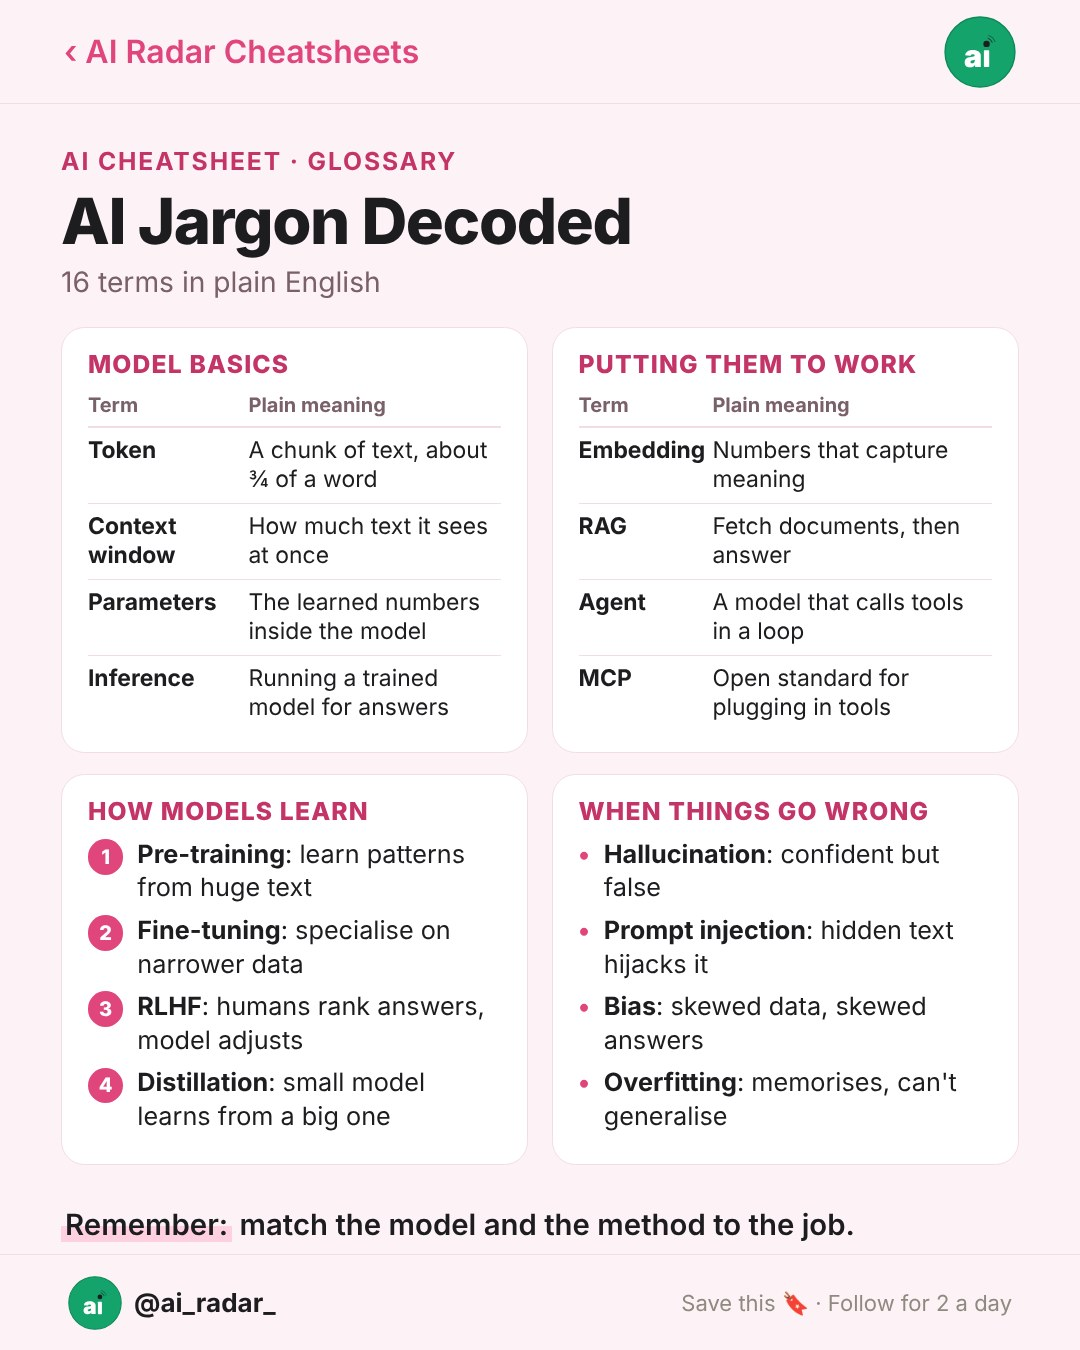
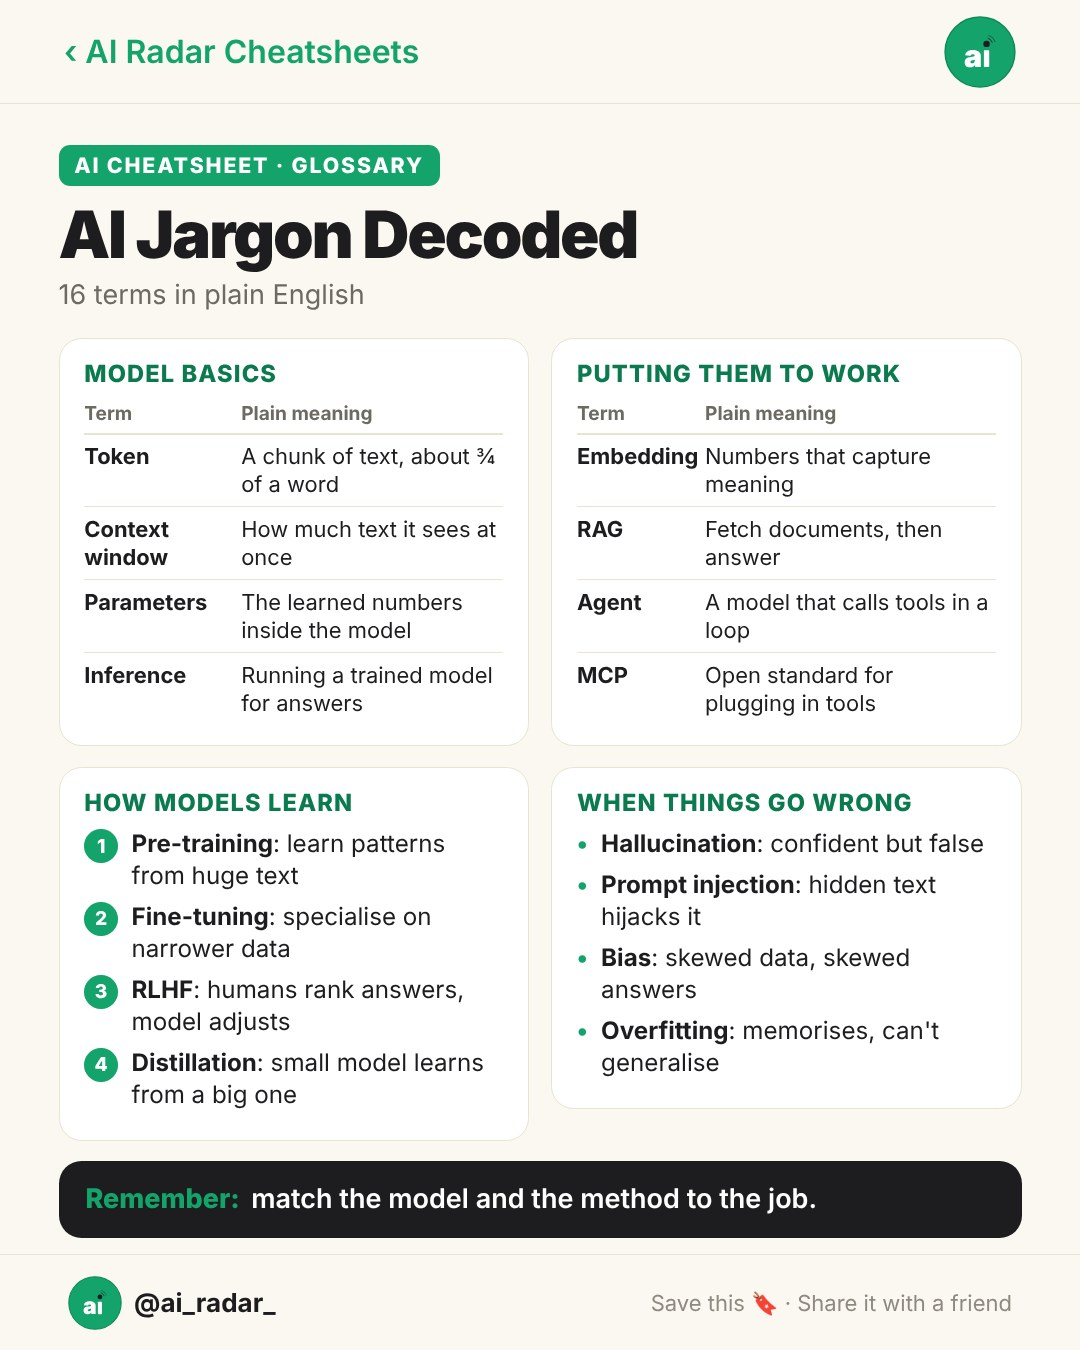
Re-render existing cheatsheets in the new fixed theme
Claude-Session: https://claude.ai/code/session_01SNngmWKSfmXVs7Ci8TEFb5

diff --git a/cheatsheets/index.html b/cheatsheets/index.html
@@ -52,20 +52,20 @@
   <div class="sheets">
     <!-- new-cheatsheet:page -->
     <article class="sheet reveal" id="ai-jargon-decoded">
-      <a class="img" href="img/ai-jargon-decoded.jpg"><img src="img/ai-jargon-decoded.jpg" alt="AI Jargon Decoded cheatsheet: 16 AI terms explained in plain English" loading="lazy" width="1080" height="1350"></a>
-      <div class="meta"><span class="kind">Glossary</span><b>AI Jargon Decoded</b><span class="desc">16 terms in plain English</span><a class="link-arrow" href="img/ai-jargon-decoded.jpg">Open full size →</a></div>
+      <a class="img" href="img/ai-jargon-decoded.jpg?v=2"><img src="img/ai-jargon-decoded.jpg?v=2" alt="AI Jargon Decoded cheatsheet: 16 AI terms explained in plain English" loading="lazy" width="1080" height="1350"></a>
+      <div class="meta"><span class="kind">Glossary</span><b>AI Jargon Decoded</b><span class="desc">16 terms in plain English</span><a class="link-arrow" href="img/ai-jargon-decoded.jpg?v=2">Open full size →</a></div>
     </article>
     <article class="sheet reveal" id="ai-agents-101">
-      <a class="img" href="img/ai-agents-101.jpg"><img src="img/ai-agents-101.jpg" alt="AI Agents 101 cheatsheet: the agent loop, core parts, common patterns and why agents fail" loading="lazy" width="1080" height="1350"></a>
-      <div class="meta"><span class="kind">Agents</span><b>AI Agents 101</b><span class="desc">From chatbot to something that does the work</span><a class="link-arrow" href="img/ai-agents-101.jpg">Open full size →</a></div>
+      <a class="img" href="img/ai-agents-101.jpg?v=2"><img src="img/ai-agents-101.jpg?v=2" alt="AI Agents 101 cheatsheet: the agent loop, core parts, common patterns and why agents fail" loading="lazy" width="1080" height="1350"></a>
+      <div class="meta"><span class="kind">Agents</span><b>AI Agents 101</b><span class="desc">From chatbot to something that does the work</span><a class="link-arrow" href="img/ai-agents-101.jpg?v=2">Open full size →</a></div>
     </article>
     <article class="sheet reveal" id="rag-vs-fine-tuning">
-      <a class="img" href="img/rag-vs-fine-tuning.jpg"><img src="img/rag-vs-fine-tuning.jpg" alt="RAG vs Fine-tuning vs Prompting cheatsheet: which to use when, trade-offs and how RAG works" loading="lazy" width="1080" height="1350"></a>
-      <div class="meta"><span class="kind">Building with LLMs</span><b>RAG vs Fine-tuning vs Prompting</b><span class="desc">Pick the cheapest tool that works</span><a class="link-arrow" href="img/rag-vs-fine-tuning.jpg">Open full size →</a></div>
+      <a class="img" href="img/rag-vs-fine-tuning.jpg?v=2"><img src="img/rag-vs-fine-tuning.jpg?v=2" alt="RAG vs Fine-tuning vs Prompting cheatsheet: which to use when, trade-offs and how RAG works" loading="lazy" width="1080" height="1350"></a>
+      <div class="meta"><span class="kind">Building with LLMs</span><b>RAG vs Fine-tuning vs Prompting</b><span class="desc">Pick the cheapest tool that works</span><a class="link-arrow" href="img/rag-vs-fine-tuning.jpg?v=2">Open full size →</a></div>
     </article>
     <article class="sheet reveal" id="prompt-engineering">
-      <a class="img" href="img/prompt-engineering.jpg"><img src="img/prompt-engineering.jpg" alt="Prompt Engineering cheatsheet: anatomy of a good prompt, sampling knobs, core techniques and quick fixes" loading="lazy" width="1080" height="1350"></a>
-      <div class="meta"><span class="kind">Prompting</span><b>Prompt Engineering</b><span class="desc">Get better answers from any LLM</span><a class="link-arrow" href="img/prompt-engineering.jpg">Open full size →</a></div>
+      <a class="img" href="img/prompt-engineering.jpg?v=2"><img src="img/prompt-engineering.jpg?v=2" alt="Prompt Engineering cheatsheet: anatomy of a good prompt, sampling knobs, core techniques and quick fixes" loading="lazy" width="1080" height="1350"></a>
+      <div class="meta"><span class="kind">Prompting</span><b>Prompt Engineering</b><span class="desc">Get better answers from any LLM</span><a class="link-arrow" href="img/prompt-engineering.jpg?v=2">Open full size →</a></div>
     </article>
   </div>
 </main>

diff --git a/index.html b/index.html
@@ -141,10 +141,10 @@
       <div class="res-grid">
         <a class="res reveal" href="prompts/"><div class="thumb"><img src="assets/img/prompt-pack.jpg" alt="AI Prompt Pack cover" loading="lazy" width="1080" height="1350"></div><div class="body"><span class="kind">Prompt pack</span><b>50 AI prompts that do real work</b><span class="desc">Copy-ready prompts for work, learning, writing, coding and more.</span></div></a>
         <!-- new-cheatsheet:home -->
-        <a class="res reveal" href="cheatsheets/#ai-jargon-decoded"><div class="thumb"><img src="cheatsheets/img/ai-jargon-decoded.jpg" alt="AI Jargon Decoded cheatsheet" loading="lazy" width="1080" height="1350"></div><div class="body"><span class="kind">Cheatsheet</span><b>AI Jargon Decoded</b><span class="desc">16 AI terms in plain English.</span></div></a>
-        <a class="res reveal" href="cheatsheets/#ai-agents-101"><div class="thumb"><img src="cheatsheets/img/ai-agents-101.jpg" alt="AI Agents 101 cheatsheet" loading="lazy" width="1080" height="1350"></div><div class="body"><span class="kind">Cheatsheet</span><b>AI Agents 101</b><span class="desc">From chatbot to something that does the work.</span></div></a>
-        <a class="res reveal" href="cheatsheets/#rag-vs-fine-tuning"><div class="thumb"><img src="cheatsheets/img/rag-vs-fine-tuning.jpg" alt="RAG vs Fine-tuning vs Prompting cheatsheet" loading="lazy" width="1080" height="1350"></div><div class="body"><span class="kind">Cheatsheet</span><b>RAG vs Fine-tuning vs Prompting</b><span class="desc">Pick the cheapest tool that works.</span></div></a>
-        <a class="res reveal" href="cheatsheets/#prompt-engineering"><div class="thumb"><img src="cheatsheets/img/prompt-engineering.jpg" alt="Prompt Engineering cheatsheet" loading="lazy" width="1080" height="1350"></div><div class="body"><span class="kind">Cheatsheet</span><b>Prompt Engineering</b><span class="desc">Get better answers from any LLM.</span></div></a>
+        <a class="res reveal" href="cheatsheets/#ai-jargon-decoded"><div class="thumb"><img src="cheatsheets/img/ai-jargon-decoded.jpg?v=2" alt="AI Jargon Decoded cheatsheet" loading="lazy" width="1080" height="1350"></div><div class="body"><span class="kind">Cheatsheet</span><b>AI Jargon Decoded</b><span class="desc">16 AI terms in plain English.</span></div></a>
+        <a class="res reveal" href="cheatsheets/#ai-agents-101"><div class="thumb"><img src="cheatsheets/img/ai-agents-101.jpg?v=2" alt="AI Agents 101 cheatsheet" loading="lazy" width="1080" height="1350"></div><div class="body"><span class="kind">Cheatsheet</span><b>AI Agents 101</b><span class="desc">From chatbot to something that does the work.</span></div></a>
+        <a class="res reveal" href="cheatsheets/#rag-vs-fine-tuning"><div class="thumb"><img src="cheatsheets/img/rag-vs-fine-tuning.jpg?v=2" alt="RAG vs Fine-tuning vs Prompting cheatsheet" loading="lazy" width="1080" height="1350"></div><div class="body"><span class="kind">Cheatsheet</span><b>RAG vs Fine-tuning vs Prompting</b><span class="desc">Pick the cheapest tool that works.</span></div></a>
+        <a class="res reveal" href="cheatsheets/#prompt-engineering"><div class="thumb"><img src="cheatsheets/img/prompt-engineering.jpg?v=2" alt="Prompt Engineering cheatsheet" loading="lazy" width="1080" height="1350"></div><div class="body"><span class="kind">Cheatsheet</span><b>Prompt Engineering</b><span class="desc">Get better answers from any LLM.</span></div></a>
       </div>
     </div>
   </section>
